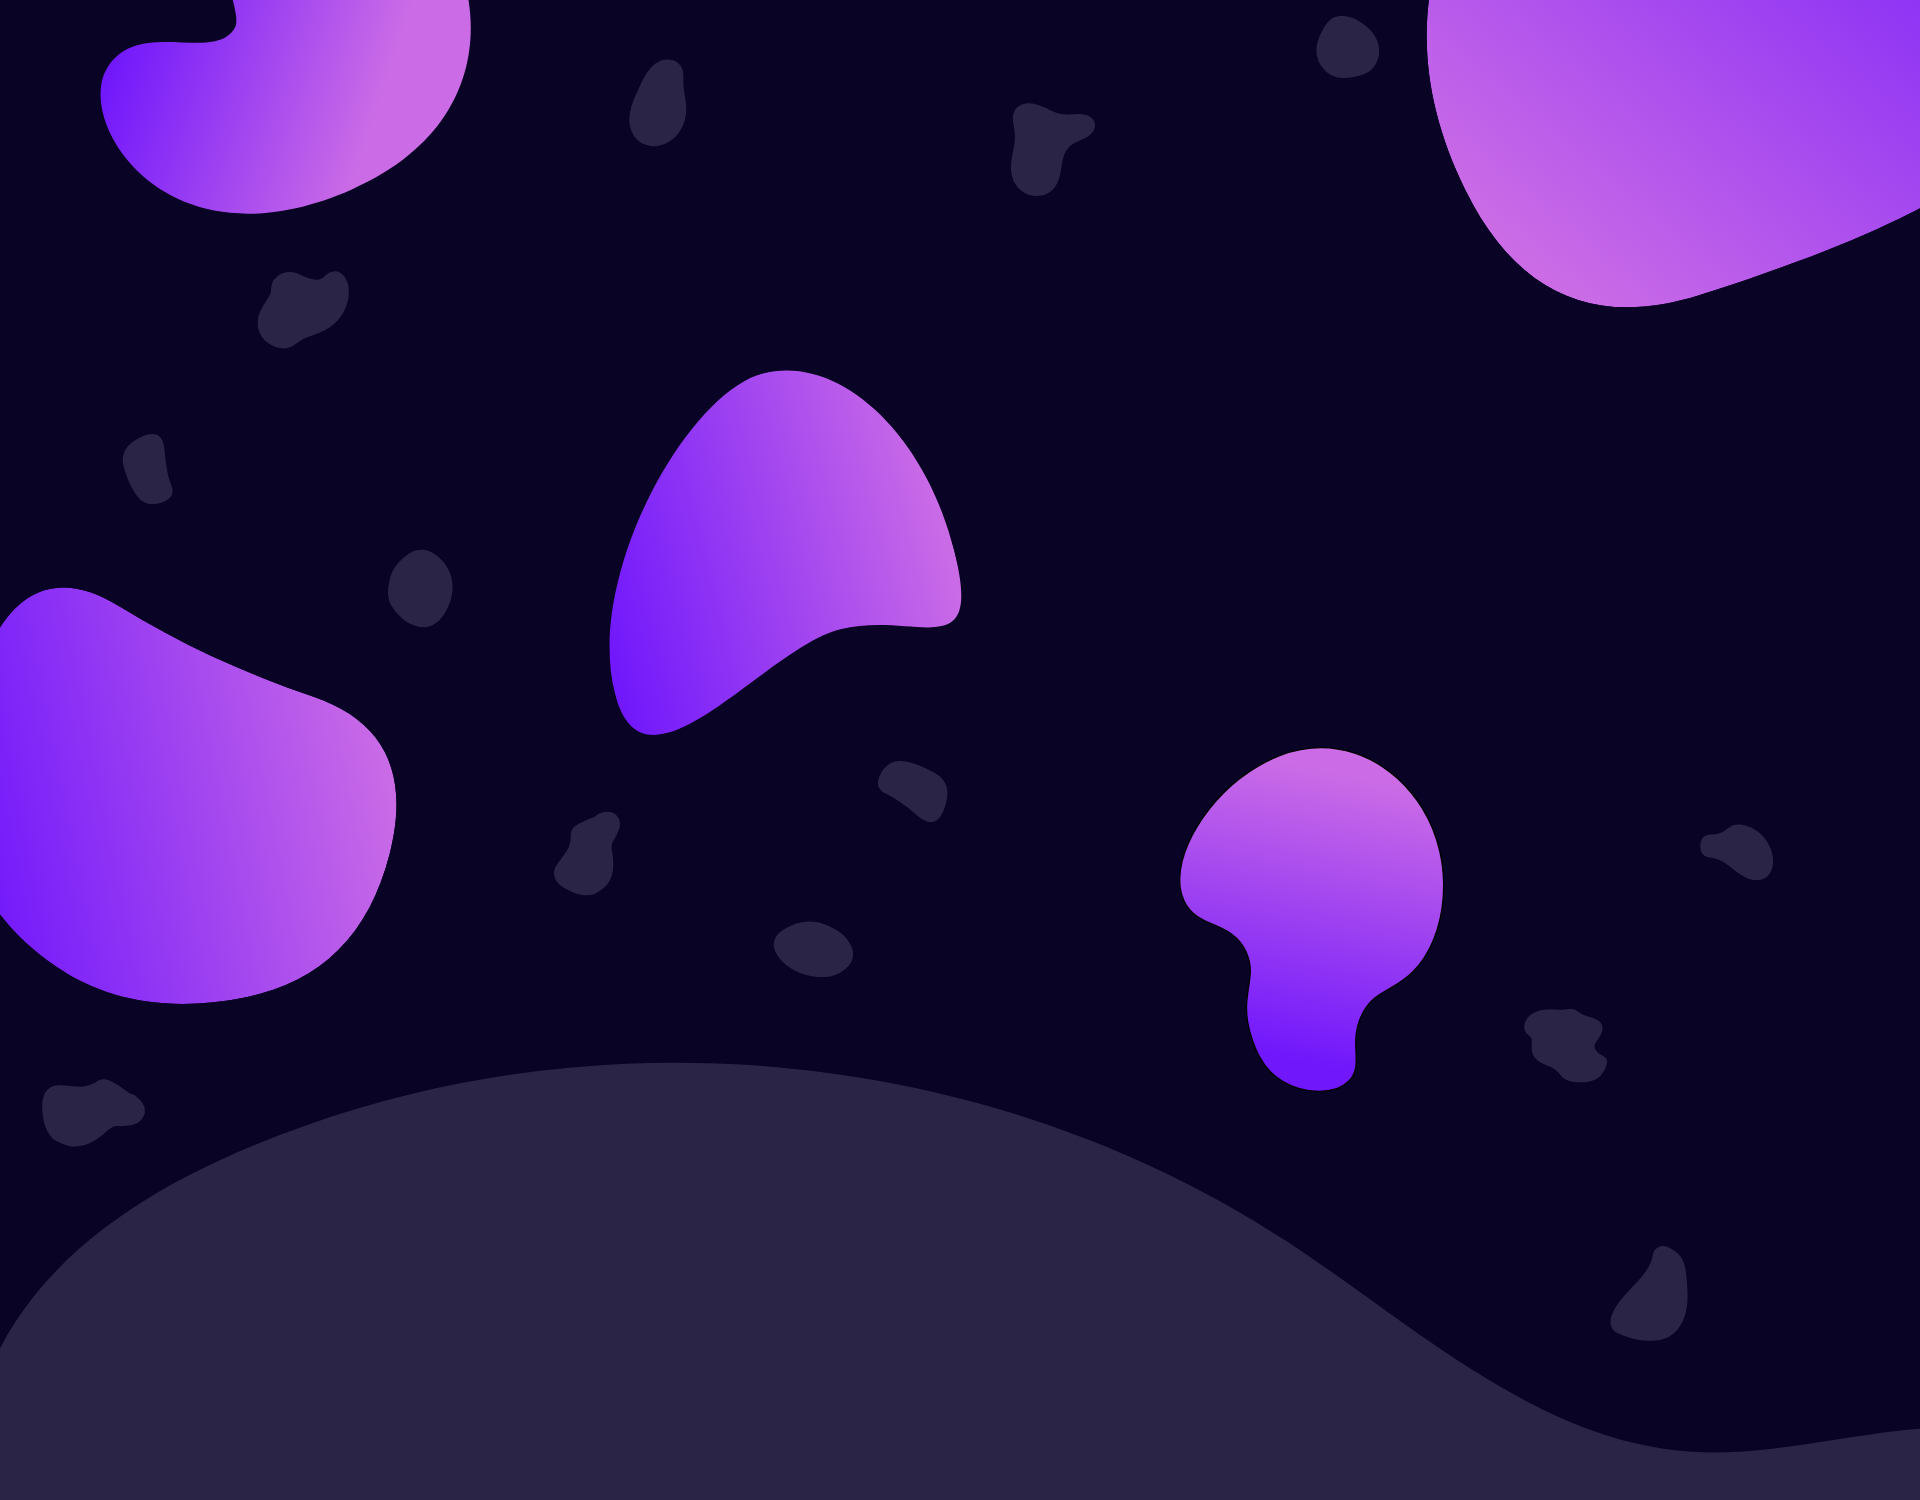
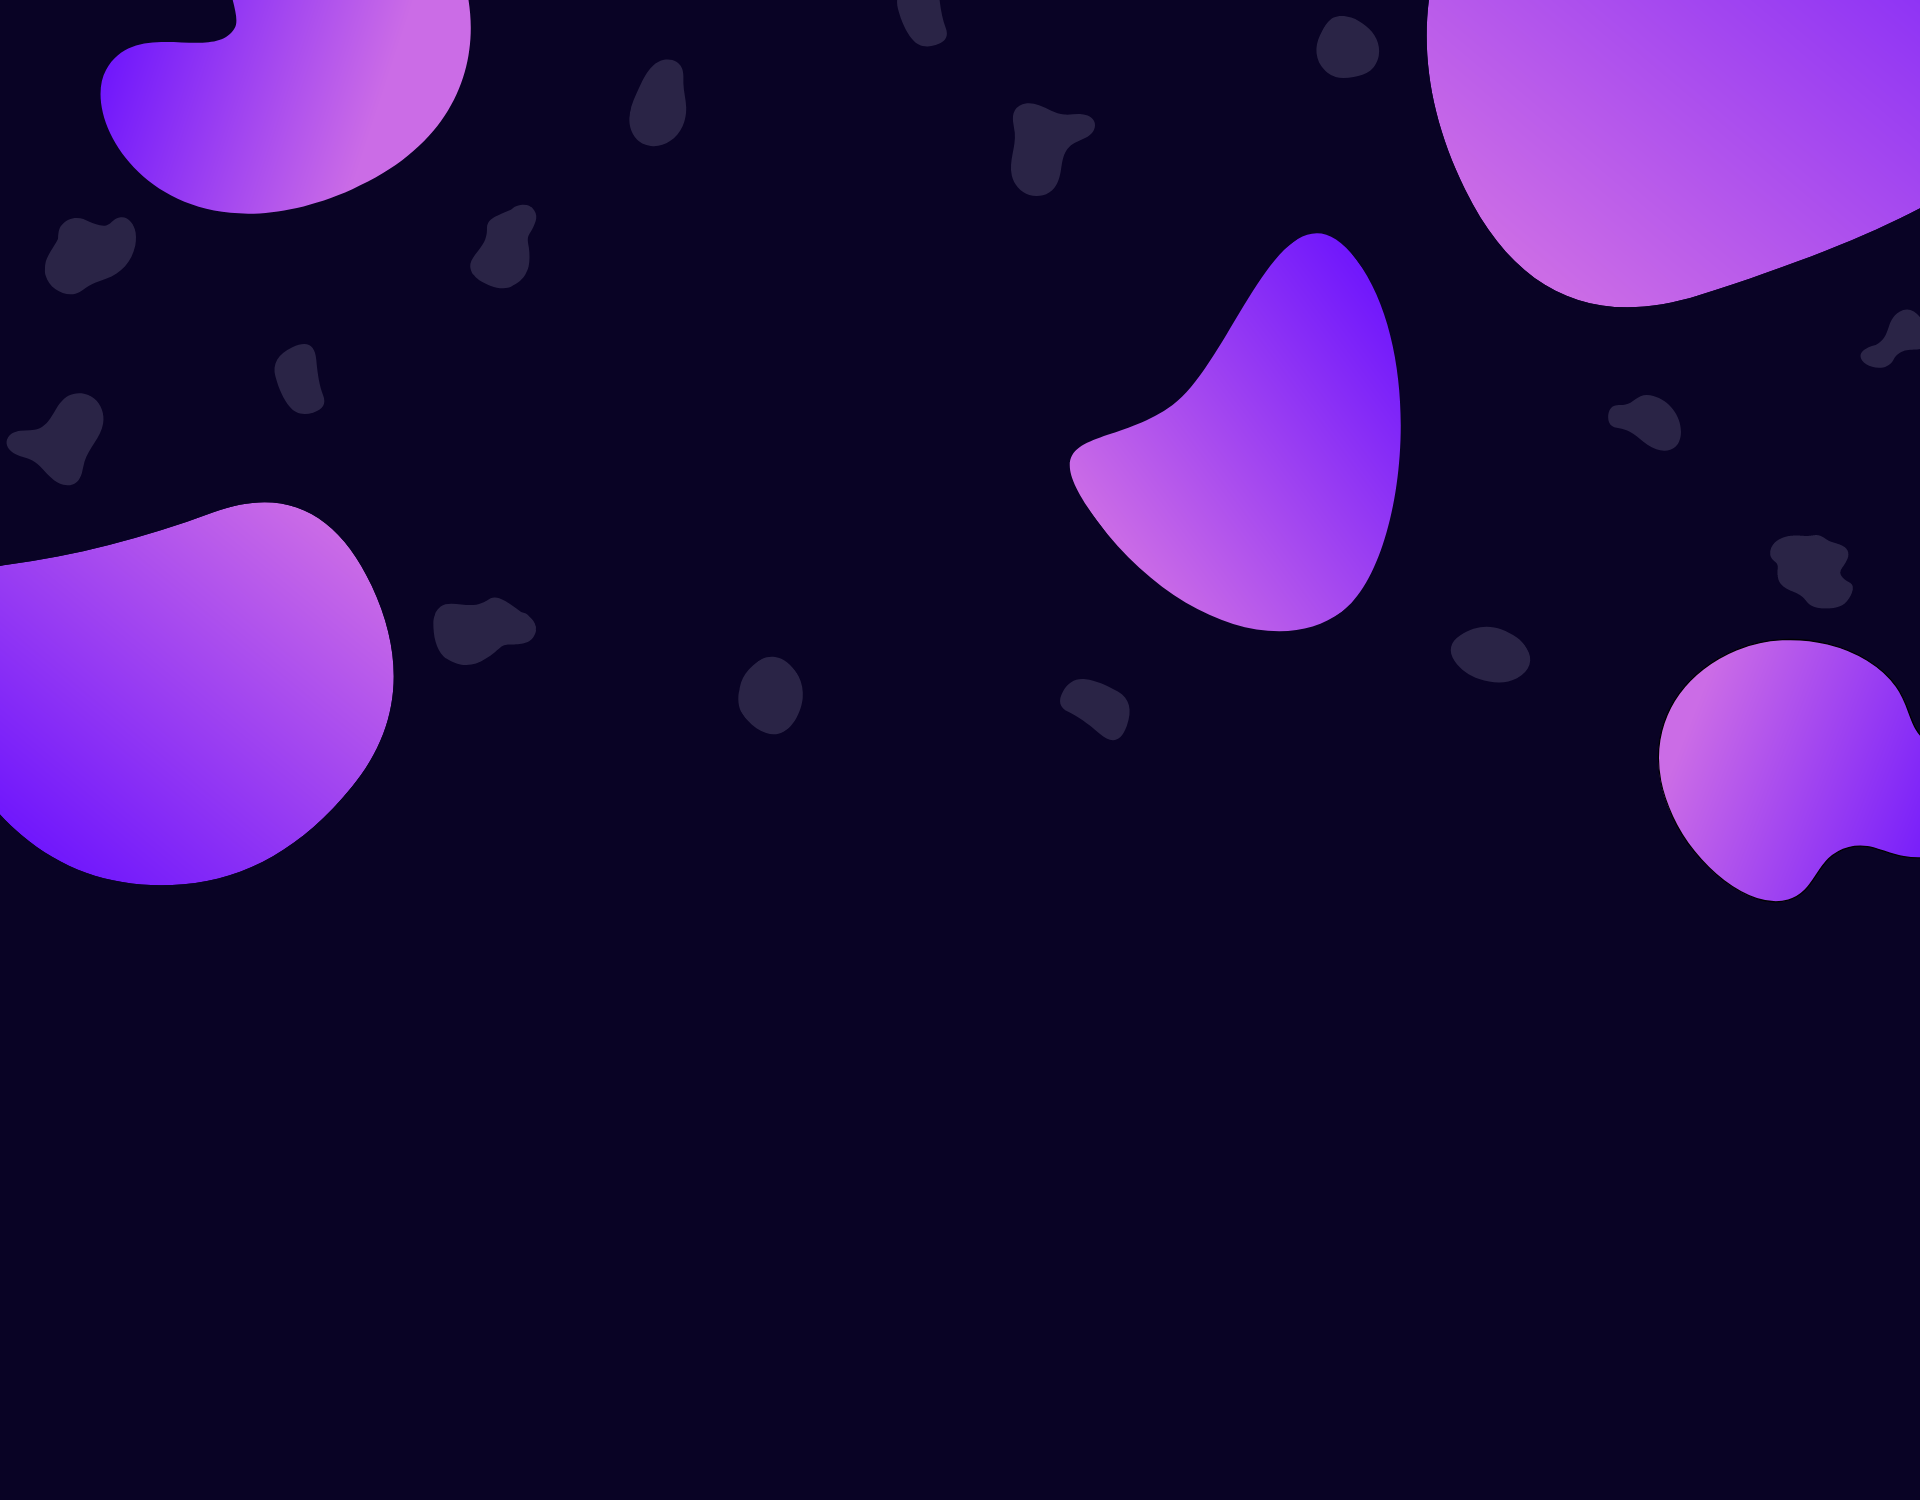
updated nav

diff --git a/src/styles/css/sass.css b/src/styles/css/sass.css
@@ -1,1 +1,1 @@
-@import url(https://fonts.googleapis.com/css2?family=Righteous&display=swap);h1{font-family:Righteous,cursive;color:#fff;font-size:70px;margin:20px 0 20px 0}p{font-family:Righteous,cursive;color:#fff;display:inline;font-size:25px;text-align:left;margin:0}.p-front{color:#7017fc}.App{background-color:#2a2446;height:300vh}.hero{height:100vh;background-image:url(../../assets/dylanpageHero.png);display:flex;flex-direction:column;justify-content:flex-end}.header{display:flex;align-items:left;justify-content:flex-end;font-size:12px;padding:35vh 25vh 0 0}.nav{display:flex;align-items:center;justify-content:center}.navText{margin-right:60px}.wrapper{display:flex;box-sizing:content-box;height:30px;width:475px;padding:20px 30px;border-radius:8px;box-shadow:0 0 25px #2a2446}.flex{display:flex}.words{text-align:left;overflow:hidden}span{display:block;padding-left:10px;height:100%;color:#2a2446;animation:spin_words 7s infinite}@keyframes spin_words{10%{transform:translateY(-112%)}25%{transform:translateY(-100%)}35%{transform:translateY(-212%)}50%{transform:translateY(-200%)}60%{transform:translateY(-312%)}75%{transform:translateY(-300%)}85%{transform:translateY(-412%)}100%{transform:translateY(-400%)}}
+@import url(https://fonts.googleapis.com/css2?family=Righteous&display=swap);h1{font-family:Righteous,cursive;color:#fff;font-size:70px;margin:20px 0 20px 0}p{font-family:Righteous,cursive;color:#fff;display:inline;font-size:25px;text-align:left;margin:0}.p-front{color:#7017fc}.App{background-color:#090325;height:300vh}.hero{height:100vh;background-image:url(../../assets/dylanpageHero.png);display:flex;flex-direction:column;justify-content:flex-end}.header{display:flex;align-items:left;justify-content:center;font-size:12px;padding:28vh 0 0 40vh}.nav{display:flex;align-items:center;justify-content:center;margin-top:165px}.navText{margin-right:30px;margin-left:30px}.wrapper{display:flex;box-sizing:content-box;height:30px;width:475px;padding:20px 30px;border-radius:8px;box-shadow:0 0 25px #2a2446}.flex{display:flex}.words{text-align:left;overflow:hidden}span{display:block;padding-left:10px;height:100%;color:#2a2446;animation:spin_words 7s infinite}@keyframes spin_words{10%{transform:translateY(-112%)}25%{transform:translateY(-100%)}35%{transform:translateY(-212%)}50%{transform:translateY(-200%)}60%{transform:translateY(-312%)}75%{transform:translateY(-300%)}85%{transform:translateY(-412%)}100%{transform:translateY(-400%)}}

diff --git a/src/App.js b/src/App.js
@@ -1,8 +1,9 @@
 import { React, useState, Suspense } from "react";
-import Cube from "./components/cube";
+import Blob from "./components/blob";
 import { Canvas } from "@react-three/fiber";
-import { OrbitControls } from "@react-three/drei";
 import "./styles/css/sass.css";
+
+import First from "./pages/firstPage" 
 
 function App() {
   
@@ -30,12 +31,21 @@ function App() {
               <ambientLight intensity={2}/>
               <directionalLight position={[10, 5, 5]} intensity={1} />
               <Suspense fallback={null}>
-                <Cube />
+                <Blob />
               </Suspense>
             </Canvas>
-            <div className="navText"><p className="">About Me</p></div>
-            <div className="navText"><p>Languages</p></div>
-            <div className="navText"><p>Hobbies</p></div>
+            <div className="navText"><p className="">about me</p></div>
+            <div className="navText"><p>languages</p></div>
+            <div className="navText"><p>hobbies</p></div>
+            <div className="navText"><p>contact me</p></div>
+            <Canvas shadows camera={{ position:[5,5,15], fov:30, near: 0.5 }} style={{height:"230px", width: "230px"}}>
+              
+              <ambientLight intensity={2}/>
+              <directionalLight position={[10, 5, 5]} intensity={1} />
+              <Suspense fallback={null}>
+                <Blob />
+              </Suspense>
+            </Canvas>
           </div>
       </div>
     </div>

diff --git a/src/components/blob.js b/src/components/blob.js
@@ -1,24 +1,23 @@
-import { useEffect, useState } from "react";
-import { useFrame } from "@react-three/fiber";
+import { useState } from "react";
 import { Sphere, MeshDistortMaterial } from "@react-three/drei";
 
 export default function Cube() {
-  const [ distort, setDistort ] = useState(0.2);
-
+  const [ distort, setDistort ] = useState(0.3);
   
   function pointerMove(){
-    if(distort+0.2<1){
-      setDistort(distort+0.1)
-    }
+    setDistort(0.6);
   }
 
+  function pointerOut(){
+    setDistort(0.5);
+  }
   return (
-    <Sphere visible args={[1, 199, 200]} scale={2} onWheel={pointerMove}>
+    <Sphere visible args={[1, 199, 200]} scale={2} onPointerEnter={pointerMove} onPointerLeave={pointerOut}>
       <MeshDistortMaterial 
         color="#7017fc"
         attach="material"
         distort={distort}
-        speed={1}
+        speed={0.6}
         roughness={1}
       />
     </Sphere>

diff --git a/src/styles/scss/sass.scss b/src/styles/scss/sass.scss
@@ -23,7 +23,7 @@ p {
   color: $neonpurple;
 }
 .App{
-  background-color: $lightNP;
+  background-color: $navyPurple;
   height: 300vh;
 }
 .hero{
@@ -36,17 +36,19 @@ p {
 .header {
   display: flex;
   align-items: left;
-  justify-content: flex-end;
+  justify-content: center;
   font-size: 12px;
-  padding: 35vh 25vh 0vh 0vh;
+  padding: 28vh 0vh 0vh 40vh;
 }
 .nav{
   display: flex;
   align-items: center;
   justify-content: center;
+  margin-top: 165px;
 }
 .navText{
-  margin-right: 60px
+  margin-right: 30px;
+  margin-left: 30px;
 }
 .wrapper{
   display: flex;
